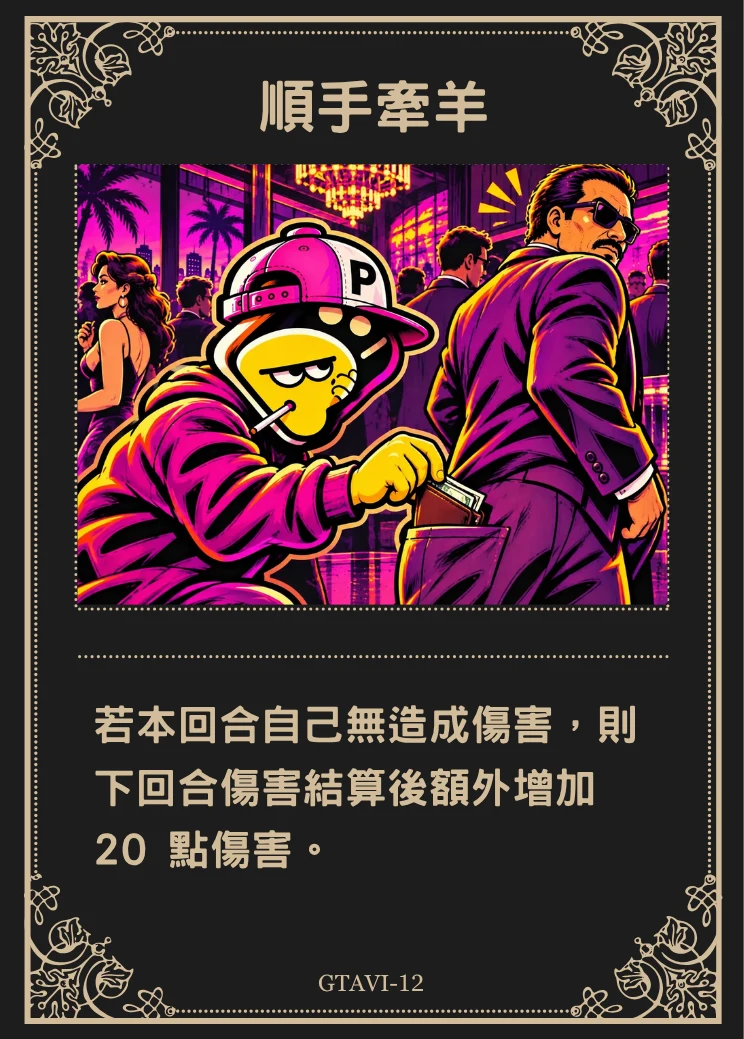
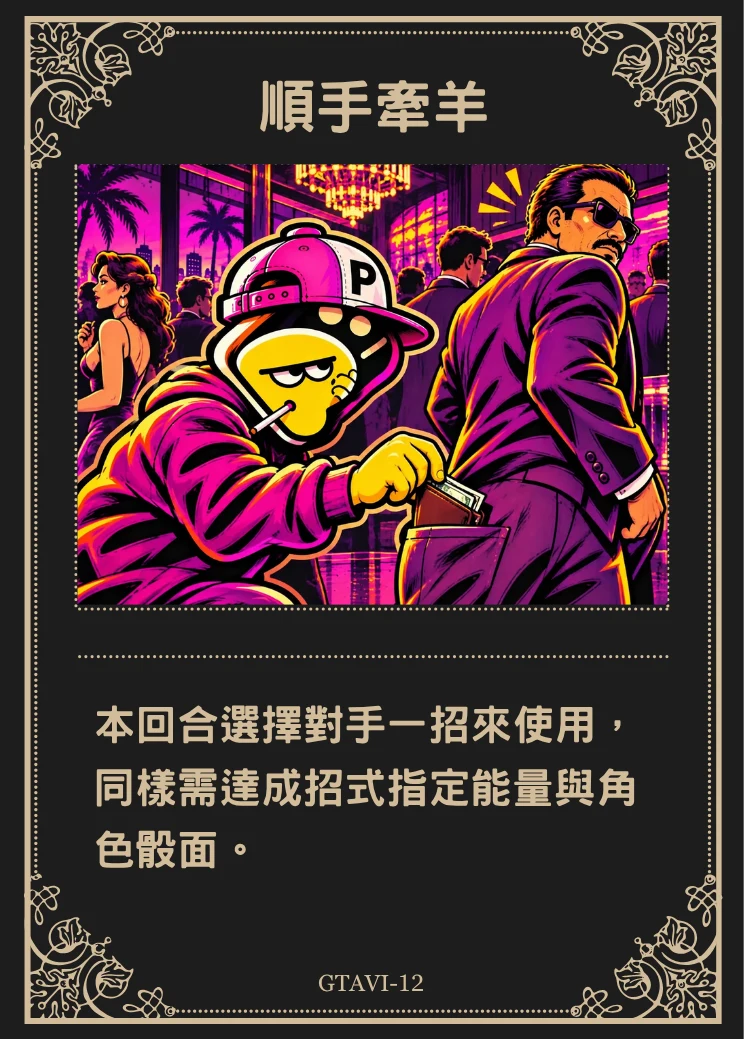
feat: GTAVI-12 換新、晶片填滿底色、產品資訊的按鈕改成懸浮
GTAVI-12「順手牽羊」換了圖與效果：原本跟 GTAVI-11 一字不差，顯然是複製貼上時漏改。
新的是「本回合選擇對手一招來使用，同樣需達成招式指定能量與角色骰面」。
GTAVI-08 的兩個骰面確認是左與右。

晶片底下那一格改成填上該屬性的顏色，不再留透明。晶片圖自己帶的圓角跟外框的圓角不會
完全重疊，透明的時候頁面底色會從角落透出來 —— 看起來就是邊框與圖之間的一條白線。
與其去兜兩個半徑，不如把那條縫塗成跟圖一樣的顏色，它就不存在了。
這同時也修到了組骰模擬器與購物規劃，它們用的是同一個元件。

產品資訊的「返回」「匯出圖片」改成懸浮在畫面下緣。這一頁可以捲很久，而返回要是跟著
內容捲走，想離開就得先捲到底。
.board 原本的底部 padding 在這一頁清掉，改由那一排自己帶：sticky 的 bottom: 0 貼的是
捲動區 padding 的內緣，留著它就會在按鈕底下露出一條還在動的內容。清單尾端也留出那排
的高度，不然捲到底時最後一盒被壓在按鈕下面 —— 而那正是會被誤認成「清單就到這裡」的
位置。

Changed region(s): [[0.1237, 0.6776, 0.8656, 0.8624]]

diff --git a/src/components/ProductInfoApp.vue b/src/components/ProductInfoApp.vue
@@ -152,15 +152,19 @@ async function exportImage() {
 
 <style scoped>
 /* 整塊板自己捲，不是裡面那一欄 —— 匯出要截的是「整份清單」，而一個會捲的容器量到的
-   高度只有看得見的那一截。 */
-.pi-board { align-items: center; overflow-y: auto; }
+   高度只有看得見的那一截。
+   底部 padding 清掉，改由懸浮的那排自己帶：sticky 的 `bottom: 0` 貼的是捲動區的
+   padding 內緣，留著 .board 原本那一截就會在按鈕底下露出一條還在動的內容。 */
+.pi-board { align-items: center; overflow-y: auto; padding-bottom: 0; }
 .pi-title { margin: 0.5rem 0 0.375rem; flex-shrink: 0; }
 
 
 .pi-sheet {
   width: 100%;
   max-width: 34rem;
-  padding: 0 0.625rem 0.5rem;
+  /* 底下那排是懸浮的，會蓋住最後一列 —— 留出它的高度，不然捲到底時最後一盒被壓在
+     按鈕底下，而那正是會被誤認成「清單就到這裡」的位置。 */
+  padding: 0 0.625rem 3rem;
   background: var(--bg);
 }
 
@@ -261,12 +265,22 @@ async function exportImage() {
   padding: 1.5rem 0.75rem;
 }
 
+/* 懸浮在畫面下緣，不是躺在清單的尾巴。這一頁是可以捲很久的 —— 返回要是跟著內容捲
+   走，想離開就得先捲到底。
+   自己帶底色：底下是會動的內容，半透明的話字會疊在圖示上。 */
 .pi-foot {
-  padding: 0.5rem 0 0.75rem;
+  position: sticky;
+  bottom: 0;
+  z-index: 2;
+  width: 100%;
+  margin-top: auto;
+  padding: 0.5rem 0 calc(0.75rem + env(safe-area-inset-bottom, 0px));
   display: flex;
   justify-content: center;
   gap: 0.375rem;
   flex-wrap: wrap;
   flex-shrink: 0;
+  background: var(--bg);
+  border-top: 0.0625rem solid var(--line);
 }
 </style>

diff --git a/src/components/dice/ChipIcon.vue b/src/components/dice/ChipIcon.vue
@@ -5,6 +5,11 @@
 // white glyph — so it's shown as-is. Wrapping it in another bordered box, as this used to, framed
 // something that was already framed.
 //
+// The tile underneath is still painted in the type's colour rather than left transparent. The
+// badge's own rounded corners don't trace the tile's exactly, so a transparent tile let the page
+// show through at the corners — a pale hairline between the border and the artwork. Painting it
+// the same colour as the badge makes that gap invisible instead of trying to match two radii.
+//
 // Dual chip: one square printed with two types split corner to corner. The tile is filled with a
 // hard-edged diagonal gradient of the two type colours and a white glyph is laid in each half.
 // The glyphs come from image/ICON/glyph/ — the same artwork with its coloured plate and outline
@@ -48,7 +53,7 @@ const hairline = computed(() => `${Math.max(0.0625, props.size * 0.038).toFixed(
     :style="{
       position: 'relative', width: box, height: box, borderRadius: radius, flexShrink: 0,
       border: hairline + ' solid rgba(0,0,0,.18)', overflow: 'hidden',
-      background: isDual ? split : (lowData ? typeChipColor(types[0]) : 'transparent')
+      background: isDual ? split : typeChipColor(types[0])
     }"
   >
     <!-- 代號疊在同一個位置上，所以雙色晶片仍然看得出是哪兩種。 -->

diff --git a/src/data/themeCards.js b/src/data/themeCards.js
@@ -114,7 +114,7 @@ export const THEME_CARD_SETS = [
         id: 'gtavi-12',
         no: 'GTAVI-12',
         name: '順手牽羊',
-        text: '若本回合自己無造成傷害，則下回合傷害結算後額外增加 20 點傷害。',
+        text: '本回合選擇對手一招來使用，同樣需達成招式指定能量與角色骰面。',
         image: 'sin-city/GTAVI-12.webp'
       }
     ]
